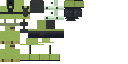
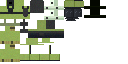
Bulldozer finished

Changed region(s): [[0.6562, 0.0, 0.8438, 0.2812]]

diff --git a/src/main/java/com/flansmod/client/model/mw/ModelSuperHeavyLegs.java b/src/main/java/com/flansmod/client/model/mw/ModelSuperHeavyLegs.java
@@ -1,0 +1,30 @@
+package com.flansmod.client.model.mw;
+
+import com.flansmod.client.model.ModelCustomArmour;
+import com.flansmod.client.tmt.ModelRendererTurbo;
+
+public class ModelSuperHeavyLegs extends ModelCustomArmour 
+{
+	public ModelSuperHeavyLegs()
+	{
+		int textureX = 64;
+		int textureY = 32;
+		
+		leftLegModel = new ModelRendererTurbo[2];
+		
+		leftLegModel[0] = new ModelRendererTurbo(this, 0, 0, textureX, textureY);
+		leftLegModel[0].addBox(-2.1F, -1F, -2.5F, 5, 10, 5);
+
+		leftLegModel[1] = new ModelRendererTurbo(this, 0, 15, textureX, textureY);
+		leftLegModel[1].addBox(-1F, 3F, -3.5F, 3, 4, 1);
+
+		rightLegModel = new ModelRendererTurbo[2];
+		
+		rightLegModel[0] = new ModelRendererTurbo(this, 20, 0, textureX, textureY);
+		rightLegModel[0].addBox(-2.9F, -1F, -2.5F, 5, 10, 5);
+
+		rightLegModel[1] = new ModelRendererTurbo(this, 8, 15, textureX, textureY);
+		rightLegModel[1].addBox(-2F, 3F, -3.5F, 3, 4, 1);
+
+	}
+}

diff --git a/src/main/java/com/flansmod/client/model/mw/ModelSuperHeavyBoots.java b/src/main/java/com/flansmod/client/model/mw/ModelSuperHeavyBoots.java
@@ -1,0 +1,25 @@
+package com.flansmod.client.model.mw;
+
+import com.flansmod.client.model.ModelCustomArmour;
+import com.flansmod.client.tmt.ModelRendererTurbo;
+
+public class ModelSuperHeavyBoots extends ModelCustomArmour 
+{
+	public ModelSuperHeavyBoots()
+	{
+		int textureX = 128;
+		int textureY = 64;
+		
+		leftLegModel = new ModelRendererTurbo[1];
+		
+		leftLegModel[0] = new ModelRendererTurbo(this, 84, 0, textureX, textureY);
+		leftLegModel[0].addBox(-2.1F, 9F, -3F, 5, 3, 6);
+
+
+		rightLegModel = new ModelRendererTurbo[1];
+		
+		rightLegModel[0] = new ModelRendererTurbo(this, 84, 9, textureX, textureY);
+		rightLegModel[0].addBox(-2.9F, 9F, -3F, 5, 3, 6);
+
+	}
+}
